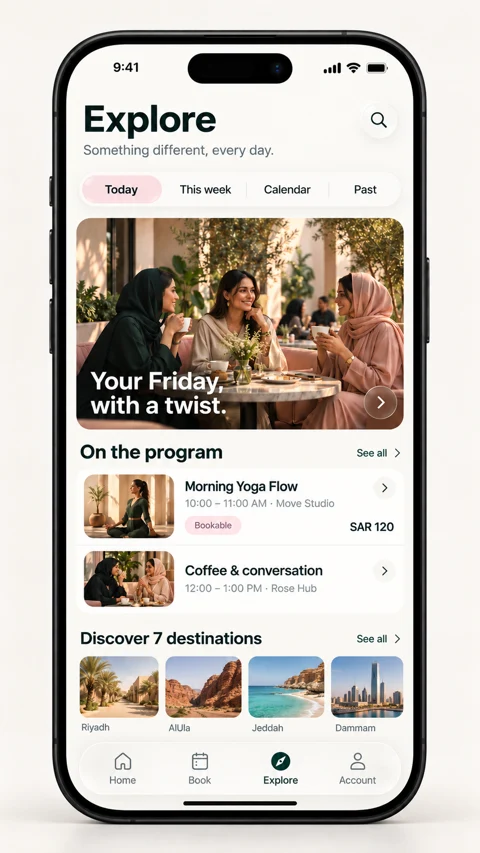
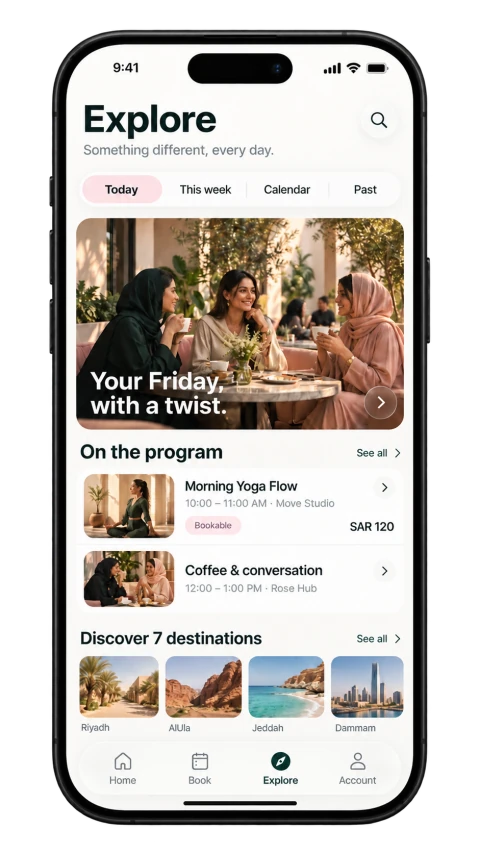
complete app

diff --git a/index.html b/index.html
@@ -23,7 +23,7 @@
       <script defer src="motion.js?v=20261014-gallery-layout"></script>
       <script defer src="tea-physics.js?v=20261014-gallery-layout"></script>
       <script defer src="tea.js?v=20261014-green-tea"></script>
-      <link rel="stylesheet" href="layout.css?v=20261015-day-planner-restored">
+      <link rel="stylesheet" href="layout.css?v=20261015-closer-phones">
       <link rel="stylesheet" href="hero-bg-ob.css">
 
 </head>
@@ -970,6 +970,9 @@
                   </div>
             </section>
             <section id="app" class="section app">
+                  <svg class="app-edge-wave app-edge-wave--top" viewBox="0 0 1440 100" preserveAspectRatio="none" aria-hidden="true" focusable="false">
+                        <path fill="var(--paper)" d="M0 0H1440V44C1200 8 960 8 720 44C480 80 240 80 0 44Z"/>
+                  </svg>
                   <div class="app-copy reveal">
                         <div class="section-head reveal">
                               <p class="eyebrow" data-i18n="app.eyebrow">عالمك معك</p>
@@ -993,11 +996,14 @@
                                     </svg></span></a>
                   </div>
                   <div class="app-phones reveal">
-                        <img class="phone" src="assets/app-explore.webp" width="480" height="900" loading="lazy"
+                        <img class="phone" src="assets/app-explore.webp?v=transparent" width="480" height="853" loading="lazy"
                               alt="تصوّر توضيحي لتطبيق PinkOut" data-alt="ui.phoneAlt"><img class="phone"
-                              src="assets/app-home.webp" width="480" height="900" loading="lazy"
+                              src="assets/app-home.webp?v=transparent" width="480" height="853" loading="lazy"
                               alt="تصوّر توضيحي لتطبيق PinkOut" data-alt="ui.phoneAlt">
                   </div>
+                  <svg class="app-edge-wave app-edge-wave--bottom" viewBox="0 0 1440 100" preserveAspectRatio="none" aria-hidden="true" focusable="false">
+                        <path fill="var(--paper)" d="M0 0H1440V44C1200 8 960 8 720 44C480 80 240 80 0 44Z"/>
+                  </svg>
             </section>
             <section id="next" class="section future">
                   <p class="eyebrow" data-i18n="next.eyebrow">والقصة ما توقف هنا</p>

diff --git a/layout.css b/layout.css
@@ -2171,3 +2171,19 @@ html[dir="rtl"] #journey .journey-stops li > span { text-align: right }
       #day .route-stop img { height: 170px }
       #day .day-pass-top { align-items: start; flex-wrap: wrap }
 }
+
+/* The app's blush surface flows between the neighboring paper sections. */
+#app { position: relative; border-radius: 0 }
+.app-edge-wave {
+      position: absolute;
+      display: block;
+      inset-inline: -1px;
+      width: calc(100% + 2px);
+      height: clamp(44px, 5vw, 72px);
+      pointer-events: none
+}
+.app-edge-wave--top { top: -1px }
+.app-edge-wave--bottom { bottom: -1px; transform: rotate(180deg) }
+
+#app .app-phones { gap: 0 }
+#app .phone + .phone { margin-inline-start: -24px }

diff --git a/assets/originals/PHONE-EDITS.md b/assets/originals/PHONE-EDITS.md
@@ -1,0 +1,10 @@
+# Phone background removal
+
+Edited with the built-in image_gen tool.
+
+Website files: assets/app-explore.webp and assets/app-home.webp (480 × 853, transparent WebP). Originals are retained in assets/originals/app-explore-with-background.webp and app-home-with-background.webp.
+
+Final edit prompt:
+
+Use case: background-extraction. Edit the supplied phone mockup only by removing ALL of the background outside the physical black smartphone silhouette. Make the entire outside area genuinely transparent, including the pale wall, tabletop and cast floor shadow. Preserve the entire original phone exactly: same front-on view, black frame, side buttons, rounded corners, screen contents, exact readable UI text and all tiny icons, photographs, colors, proportions, placement. The white areas INSIDE the phone screen must remain opaque white. Do not redraw, restyle, invent, replace or translate any screen elements. Keep full phone uncropped. No added shadow, glow, outline, scenery or checkerboard painted into the image. Deliver one isolated phone mockup on real transparent alpha.
+
